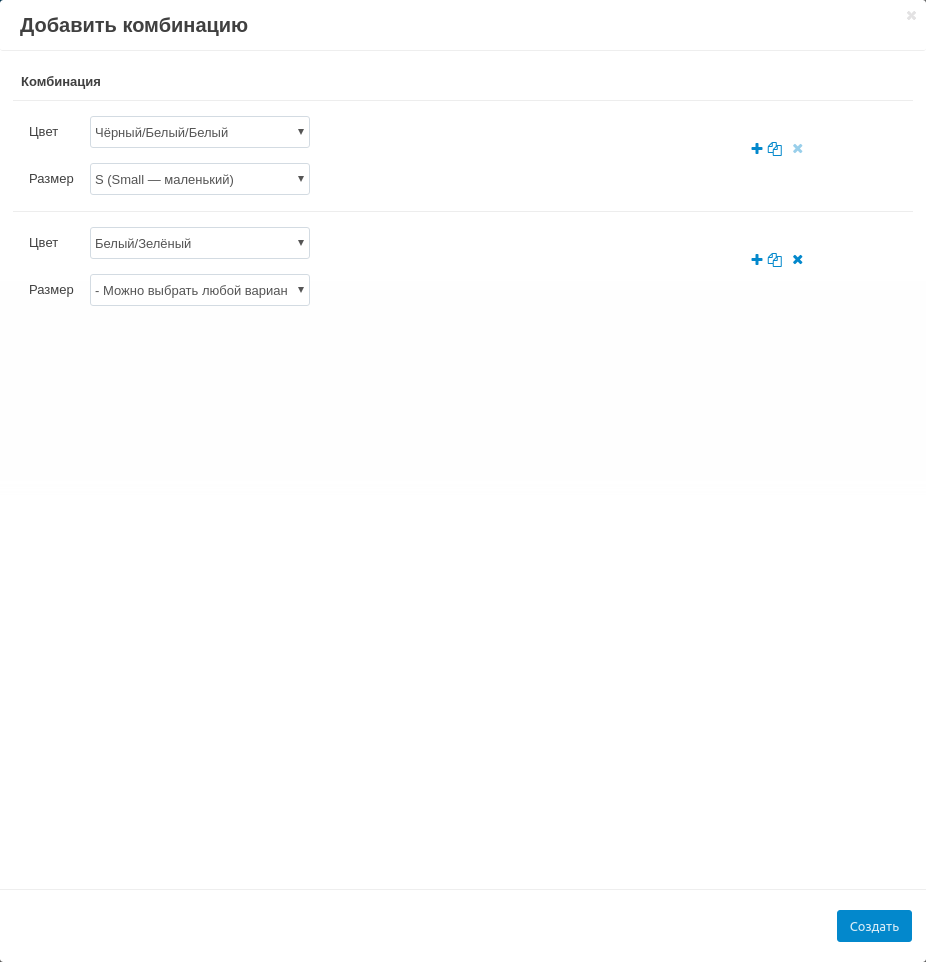
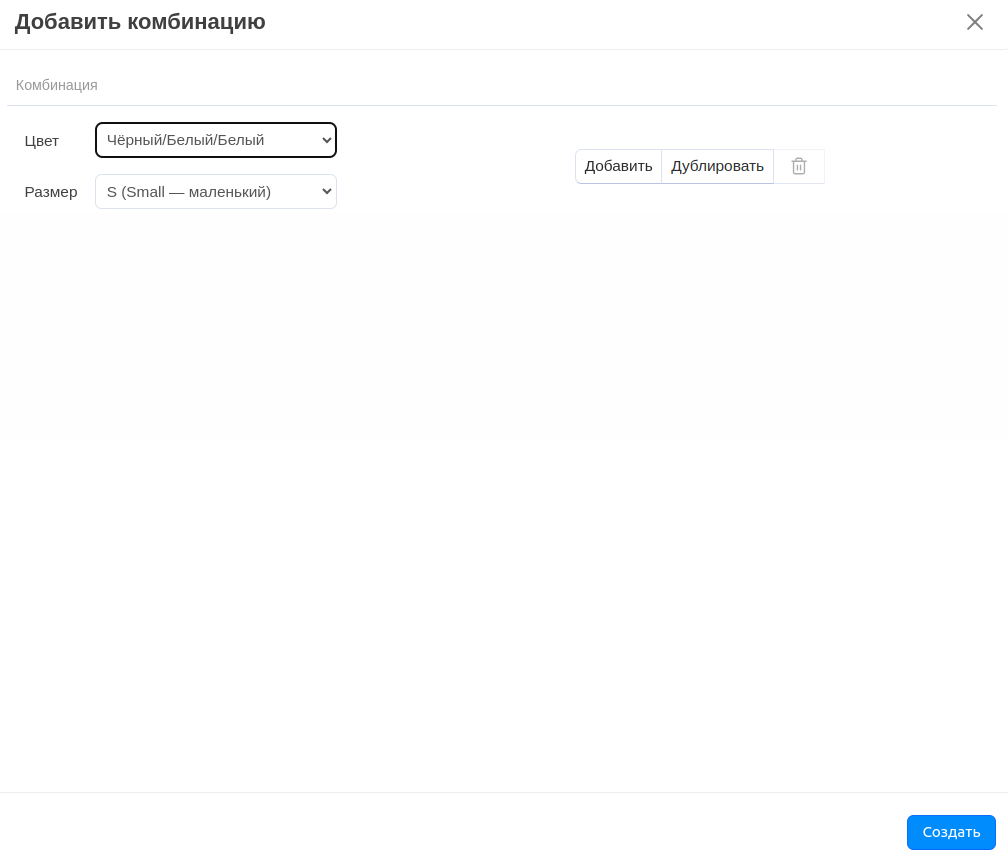
[~] Docs: Option exceptions article updated.

diff --git a/ru/user_guide/manage_products/options/exceptions.rst b/ru/user_guide/manage_products/options/exceptions.rst
@@ -66,7 +66,7 @@
    .. fancybox:: img/forbidden_comb_01.png
        :alt: Кнопка "Недоступные комбинации" находится на вкладке "Опции" над списком опций.
 
-#. Нажмите кнопку **+**.
+#. Нажмите кнопку **+ Добваить комбинацию**.
 
 #. Откроется всплывающее окно. Там вы можете указать, какие сочетания вариантов опций являются исключениями. Используйте кнопки, чтобы добавлять, клонировать, и удалять исключения.
 
